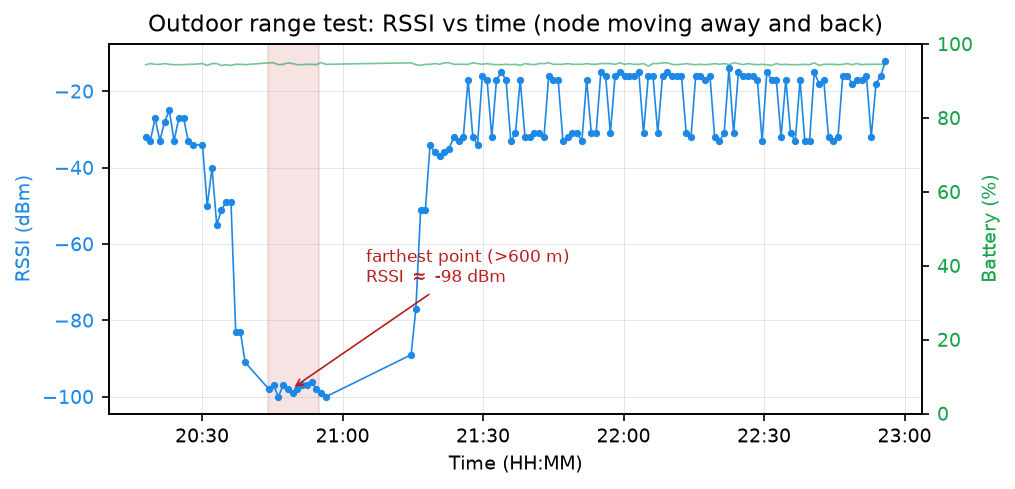
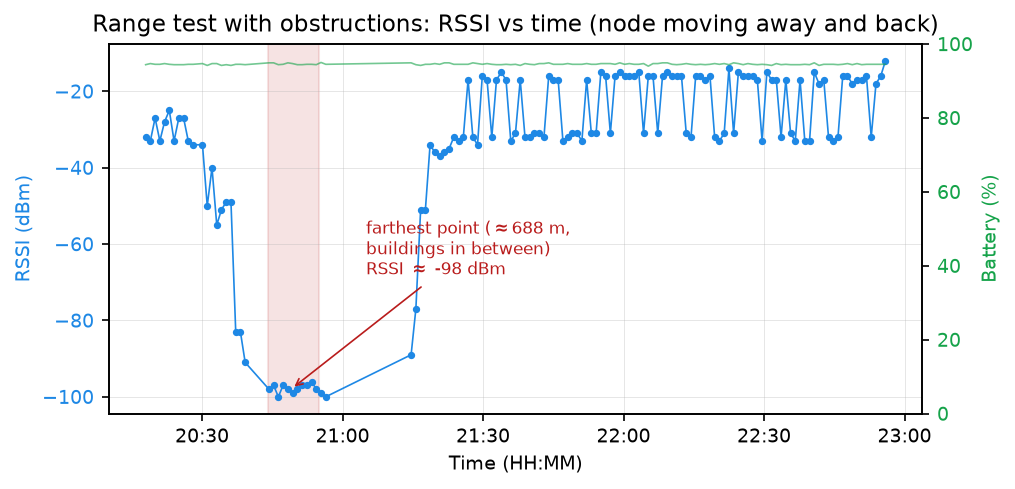
Prueba de alcance: 688 m con edificios (sin linea de vista), cota inferior
Se precisa que la prueba fue en entorno urbano con edificios de por medio
(NLOS), llego a ~688 m y se detuvo voluntariamente (no por caida del enlace)
con RSSI -98 dBm y margen: 688 m es cota inferior. Texto, figura y limitacion
actualizados en tesis y articulo.

diff --git a/hardwarex/SmartSense_HardwareX.tex b/hardwarex/SmartSense_HardwareX.tex
@@ -236,11 +236,11 @@ Node C & 17{,}314 & 75.1\% & 97.8\% & 81 & 180 \\\hline
 
 \textbf{Representative 60-minute test.} A representative one-hour window with the three nodes active (Fig.~\ref{fig:prueba60}) illustrates a continuous test: at a 120~s cycle, 30 frames are expected per node in 60~min; 29, 30 and 30 were received (PDR 96.7\%, 100\%, 100\%). Temperature and PDR are captured in this window; battery is characterised separately (Fig.~\ref{fig:autonomia}) and recovery after a reset is 2.279~s. RSSI was later enabled in the firmware and measured in the range test below; SNR is not exposed by the E220 module, and end-to-end latency requires node--gateway clock synchronisation, so both are declared as future work. The node frame now carries a sequence counter, enabling a fully instrumented sent-vs-received PDR in a repeated test.
 
-\textbf{Outdoor range.} An outdoor range test on 20 August 2026 reached a straight-line distance exceeding 600~m (Fig.~\ref{fig:distancia}). The RSSI dropped from about $-15$~dBm near the gateway to $\approx-98$~dBm at the farthest point (20:44--20:54), where the link still delivered valid packets, i.e. operating close to the LoRa sensitivity floor. The battery stayed at $\approx$94\% throughout the 2.6-hour test, consistent with the low duty cycle. As the node was moving (not held at fixed distances), the trace reflects the walk; a controlled fixed-distance RSSI--distance curve is future work.
+\textbf{Range test.} A range test on 20 August 2026 was carried out in an urban setting with buildings between the node and the gateway (non-line-of-sight). The node moved to about 688~m away and back (Fig.~\ref{fig:distancia}). The RSSI dropped from about $-15$~dBm near the gateway to $\approx-98$~dBm at the farthest point (20:44--20:54), where the link still delivered valid packets with margin relative to the LoRa sensitivity floor (typically below $-120$~dBm). The test was stopped voluntarily rather than by a link failure, so 688~m is a lower bound on range --- notable given the obstructed path. The battery stayed at $\approx$94\% throughout the 2.6-hour test, consistent with the low duty cycle. As the node was moving (not held at fixed distances), the trace reflects the walk; a controlled fixed-distance RSSI--distance curve is future work.
 
 \begin{figure}[h]\centering
 \includegraphics[width=0.92\linewidth]{prueba-distancia.pdf}
-\caption{Outdoor range test (20 August 2026): per-packet RSSI (blue) and battery (green) versus time as the node moved away from the gateway and back. At the farthest point ($>$600~m) the RSSI reached $\approx-98$~dBm with the link still operational.}
+\caption{Range test with obstructions (20 August 2026, buildings in between): per-packet RSSI (blue) and battery (green) versus time as the node moved away from the gateway and back. At the farthest point ($\approx$688~m) the RSSI reached $\approx-98$~dBm with the link still operational and with margin.}
 \label{fig:distancia}
 \end{figure}
 
@@ -295,7 +295,7 @@ Node C & 17{,}314 & 75.1\% & 97.8\% & 81 & 180 \\\hline
 \item Local operation with a rolling per-sensor history (30 days on-device; oldest days are overwritten beyond that) and no Internet dependency. The 32-day dataset was exported from the gateway before rotation.
 \item Temperature readings were consistent with two independent infrared references (Fluke $\pm$1.5~$^{\circ}$C, FLIR C8 $\pm$2~$^{\circ}$C) within their uncertainty; a metrological accuracy figure ($\leq$1~$^{\circ}$C) is not yet established and requires a calibrated contact reference (planned).
 \item Battery autonomy on the order of months (a 5-day discharge test gives $\approx$177 days conservatively and $\approx$10 months from the LiPo-curve model on a 1000~mAh cell; $\approx$0.13--0.24~mA average at a 1.9\% duty cycle), far exceeding typical requirements.
-\item Outdoor LoRa range exceeded 600~m, with the link operating down to $\approx-98$~dBm RSSI.
+\item LoRa range of at least $\approx$688~m in a non-line-of-sight urban path, with the link operating down to $\approx-98$~dBm RSSI (test stopped voluntarily, not by link failure).
 \item Limitations: absolute temperature accuracy depends on PT100 tolerance, mounting and per-node calibration; SNR is not exposed by the E220 module and end-to-end latency was not measured (no node--gateway clock synchronization).
 \end{itemize}
 

diff --git a/SmartSense_IEEE.tex b/SmartSense_IEEE.tex
@@ -306,12 +306,12 @@ En esta ventana se registraron la temperatura y el PDR (recibidos frente a esper
 \subsection{Prueba de alcance al aire libre}
 \label{sec:alcance}
 
-El 20 de agosto de 2026 se realizó una prueba de alcance en exteriores. El nodo se alejó del gateway hasta superar los \SI{600}{\meter} en línea recta y regresó, registrando el RSSI y la batería de cada paquete (Fig.~\ref{fig:distancia}). El RSSI descendió desde cerca de \SI{-15}{dBm} junto al gateway hasta aproximadamente \SI{-98}{dBm} en el punto más lejano (ventana 20:44--20:54), donde el enlace siguió entregando paquetes válidos, es decir operando cerca del umbral de sensibilidad de LoRa. La batería se mantuvo alrededor del \SI{94}{\percent} durante las \SI{2.6}{\hour} de la prueba, coherente con el bajo ciclo de trabajo y con la autonomía estimada. La medición se hizo desplazándose y no a distancias fijas controladas, por lo que la curva refleja el recorrido; una caracterización RSSI--distancia con posiciones fijas queda como trabajo futuro.
+El 20 de agosto de 2026 se realizó una prueba de alcance en exteriores, en un entorno urbano con edificios entre el nodo y el gateway (sin línea de vista directa). El nodo se alejó del gateway hasta aproximadamente \SI{688}{\meter} y regresó, registrando el RSSI y la batería de cada paquete (Fig.~\ref{fig:distancia}). El RSSI descendió desde cerca de \SI{-15}{dBm} junto al gateway hasta aproximadamente \SI{-98}{dBm} en el punto más lejano (ventana 20:44--20:54). En ese punto el enlace seguía entregando paquetes válidos con margen respecto al umbral de sensibilidad de LoRa (típicamente inferior a \SI{-120}{dBm}); la prueba se detuvo de forma voluntaria y no por pérdida del enlace, por lo que \SI{688}{\meter} constituye una cota inferior del alcance, tanto más destacable por tratarse de una trayectoria obstruida. La batería se mantuvo alrededor del \SI{94}{\percent} durante las \SI{2.6}{\hour} de la prueba, coherente con el bajo ciclo de trabajo y con la autonomía estimada. La medición se hizo desplazándose y no a distancias fijas controladas, por lo que la curva refleja el recorrido; una caracterización RSSI--distancia con posiciones fijas queda como trabajo futuro.
 
 \begin{figure}[!t]
   \centering
   \includegraphics[width=\columnwidth]{prueba-distancia.pdf}
-  \caption{Prueba de alcance al aire libre (20 de agosto de 2026): RSSI (azul) y batería (verde) frente al tiempo, mientras el nodo se alejaba del gateway y regresaba. En el punto más lejano ($>$\SI{600}{\meter}) el RSSI llegó a $\approx$\SI{-98}{dBm} con el enlace aún operativo.}
+  \caption{Prueba de alcance con obstrucciones (20 de agosto de 2026, edificios de por medio): RSSI (azul) y batería (verde) frente al tiempo, mientras el nodo se alejaba del gateway y regresaba. En el punto más lejano ($\approx$\SI{688}{\meter}) el RSSI llegó a $\approx$\SI{-98}{dBm} con el enlace aún operativo y con margen.}
   \label{fig:distancia}
 \end{figure}
 

diff --git a/analisis/prueba_distancia.py b/analisis/prueba_distancia.py
@@ -35,7 +35,7 @@ ax.plot(t, rssi, "-o", ms=2.5, lw=0.8, color="#1e88e5", label="RSSI")
 ax.set_ylabel("RSSI (dBm)", color="#1e88e5")
 ax.tick_params(axis="y", labelcolor="#1e88e5")
 ax.set_xlabel("Time (HH:MM)")
-ax.set_title("Outdoor range test: RSSI vs time (node moving away and back)")
+ax.set_title("Range test with obstructions: RSSI vs time (node moving away and back)")
 ax.xaxis.set_major_formatter(mdates.DateFormatter("%H:%M"))
 ax.grid(True, lw=0.3, alpha=0.5)
 
@@ -43,8 +43,8 @@ ax.grid(True, lw=0.3, alpha=0.5)
 far0 = datetime(2026, 8, 20, 20, 44)
 far1 = datetime(2026, 8, 20, 20, 55)
 ax.axvspan(far0, far1, color="#b91c1c", alpha=0.12)
-ax.annotate("farthest point (>600 m)\nRSSI $\\approx$ -98 dBm",
-            xy=(datetime(2026, 8, 20, 20, 49), -98), xytext=(datetime(2026, 8, 20, 21, 5), -70),
+ax.annotate("farthest point ($\\approx$688 m,\nbuildings in between)\nRSSI $\\approx$ -98 dBm",
+            xy=(datetime(2026, 8, 20, 20, 49), -98), xytext=(datetime(2026, 8, 20, 21, 5), -68),
             fontsize=8, color="#b91c1c",
             arrowprops=dict(arrowstyle="->", color="#b91c1c", lw=0.8))
 
